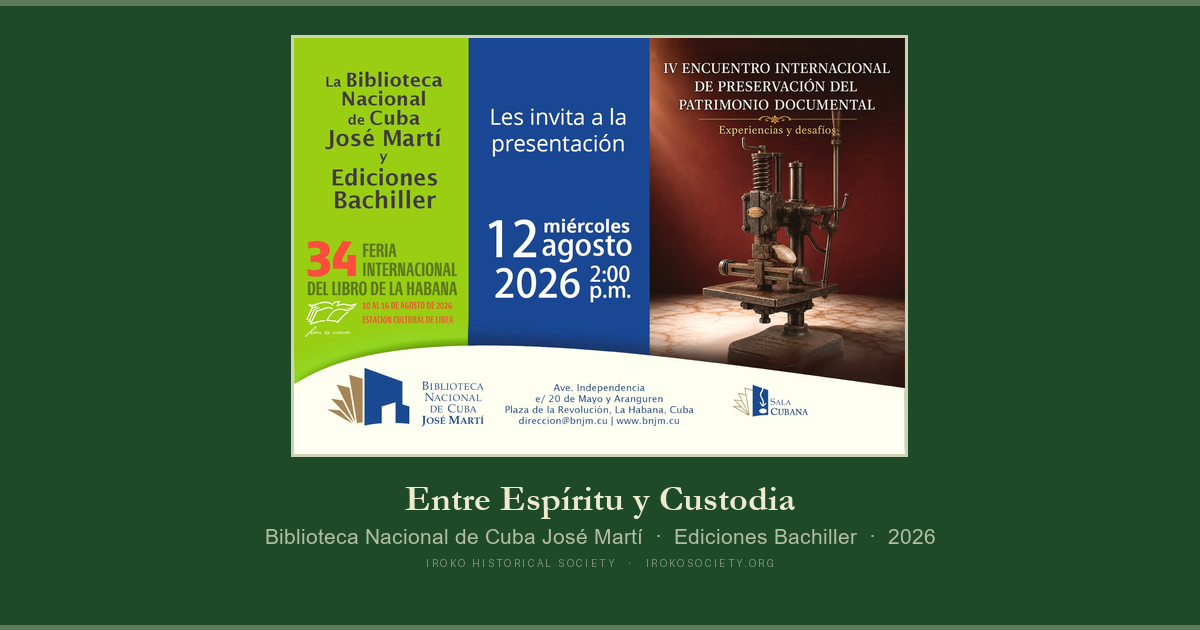
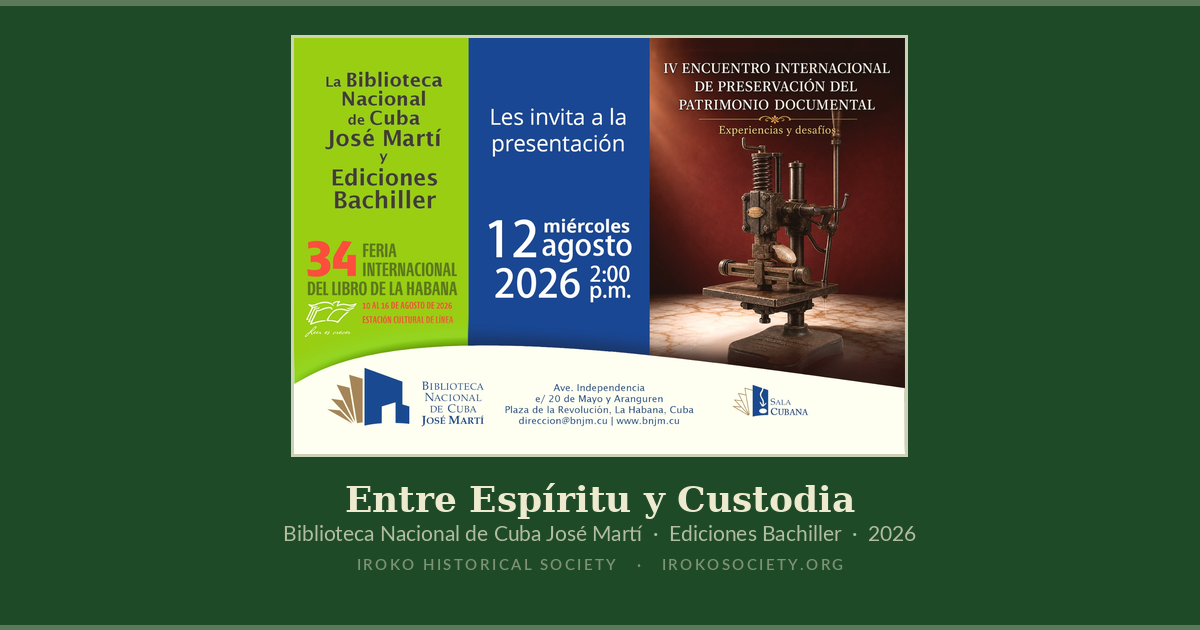
Updates

Changed region(s): [[0.2158, 0.754, 0.8017, 0.9048]]

diff --git a/entre-espiritu-y-custodia.html b/entre-espiritu-y-custodia.html
@@ -10,14 +10,14 @@
   <meta property="og:title"       content="Entre Espíritu y Custodia | Iroko Historical Society">
   <meta property="og:description" content="Chapter in the proceedings of the IV Encuentro Internacional de Preservación del Patrimonio Documental, Ediciones Bachiller, Biblioteca Nacional de Cuba José Martí, 2026.">
   <meta property="og:url"         content="https://irokosociety.org/entre-espiritu-y-custodia.html">
-  <meta property="og:image"       content="https://irokosociety.org/assets/og-entre-el-espiritu.png">
+  <meta property="og:image"       content="https://irokosociety.org/assets/og-entre-espiritu-y-custodia.png">
   <meta property="og:image:width"  content="1200">
   <meta property="og:image:height" content="630">
   <meta property="og:image:type"   content="image/png">
   <meta name="twitter:card"        content="summary_large_image">
   <meta name="twitter:title"       content="Entre Espíritu y Custodia | Iroko Historical Society">
   <meta name="twitter:description" content="Chapter in the proceedings of the IV Encuentro Internacional de Preservación del Patrimonio Documental, Ediciones Bachiller, Biblioteca Nacional de Cuba José Martí, 2026.">
-  <meta name="twitter:image"       content="https://irokosociety.org/assets/og-entre-el-espiritu.png">
+  <meta name="twitter:image"       content="https://irokosociety.org/assets/og-entre-espiritu-y-custodia.png">
   <link rel="stylesheet" href="style.css">
   <link rel="icon" type="image/svg+xml" href="assets/IHS-Logo.svg">
   <style>
@@ -48,6 +48,15 @@
     .page-content .page-subtitle.lg{--subtitle-size:1.6rem}
     .page-content .page-subtitle.xl{--subtitle-size:1.9rem;line-height:1.4}
     @media(max-width:600px){.page-content .page-subtitle{font-size:calc(var(--subtitle-size) * .82)}}
+    .page-content .invitation{background:var(--cream-light);border-left:4px solid var(--green-deep);border-radius:0;padding:1.15rem 1.4rem;margin:2rem 0 .5rem}
+    .page-content .invitation p{font-size:.95rem;color:var(--green-deep);line-height:1.7;margin:0 0 .6rem}
+    .page-content .invitation p:last-child{margin-bottom:0}
+    .page-content .invitation .when{font-family:var(--font-sans);font-size:.78rem;letter-spacing:.09em;text-transform:uppercase;color:var(--green-mid);margin-bottom:.55rem}
+    .page-content .invitation .es{color:var(--text-muted);font-size:.9rem}
+    .page-content .flyer{margin:0 0 1.1rem}
+    .page-content .flyer a{display:block;line-height:0}
+    .page-content .flyer img{width:100%;height:auto;display:block;border:1px solid var(--cream-dark)}
+    .page-content .flyer figcaption{font-family:var(--font-sans);font-size:.74rem;letter-spacing:.04em;color:var(--green-mid);margin-top:.5rem;line-height:1.5}
     .page-content h2{font-family:var(--font-display);font-size:1.25rem;color:var(--green-deep);margin:2rem 0 .6rem}
     .page-content h3{font-family:var(--font-sans);font-size:1rem;font-weight:600;color:var(--green-mid);margin:1.5rem 0 .4rem}
     .page-content p{font-family:var(--font-sans);font-size:.92rem;color:var(--text-muted);line-height:1.85;margin-bottom:1rem}
@@ -202,6 +211,36 @@
     Biblioteca Nacional in Havana in September 2025. It remains the only Spanish-language
     contribution in the Society's publication record.
   </p>
+
+  <div class="invitation">
+    <p class="when">Wednesday 12 August 2026 &middot; 2:00 pm &middot; Havana</p>
+
+    <figure class="flyer">
+      <a href="assets/flyer-iv-encuentro-2026.jpg" target="_blank" rel="noopener">
+        <img src="assets/flyer-iv-encuentro-2026.jpg" width="1600" height="1089"
+             alt="Invitation from the Biblioteca Nacional de Cuba Jos&eacute; Mart&iacute; and
+                  Ediciones Bachiller to the presentation of the IV Encuentro Internacional de
+                  Preservaci&oacute;n del Patrimonio Documental: Experiencias y desaf&iacute;os,
+                  Wednesday 12 August 2026 at 2:00 pm, 34 Feria Internacional del Libro de La
+                  Habana. The right panel shows an antique iron book press.">
+      </a>
+      <figcaption>
+        Invitation issued by the Biblioteca Nacional de Cuba Jos&eacute; Mart&iacute;.
+        Select the image to view it full size.
+      </figcaption>
+    </figure>
+
+    <p>
+      The volume is presented at the 34th Havana International Book Fair by the Biblioteca
+      Nacional de Cuba Jos&eacute; Mart&iacute; and Ediciones Bachiller. No invitation is
+      needed. Anyone who can get there, go.
+    </p>
+    <p class="es">
+      El volumen se presenta en la 34 Feria Internacional del Libro de La Habana, por la
+      Biblioteca Nacional de Cuba Jos&eacute; Mart&iacute; y Ediciones Bachiller. No hace
+      falta invitaci&oacute;n. Quien pueda llegar, que llegue.
+    </p>
+  </div>
 
   <hr class="section-divider">
 

diff --git a/cv.html b/cv.html
@@ -335,7 +335,7 @@
   <div class="cv-row">
     <span class="cv-year">2026</span>
     <div class="cv-item">
-      <strong><a href="entre-el-espiritu-y-la-custodia.html">Entre esp&iacute;ritu y custodia:
+      <strong><a href="entre-espiritu-y-custodia.html">Entre esp&iacute;ritu y custodia:
       Caminos &eacute;ticos para la digitalizaci&oacute;n de archivos sagrados
       afrocaribe&ntilde;os</a></strong>
       <span class="cv-venue">In <em>IV Encuentro Internacional de Preservaci&oacute;n del

diff --git a/scripts/make-og-entre-espiritu-y-custodia.py b/scripts/make-og-entre-espiritu-y-custodia.py
@@ -1,15 +1,15 @@
 #!/usr/bin/env python3
 """
-make-og-entre-el-espiritu.py
+make-og-entre-espiritu-y-custodia.py
 
-Builds assets/og-entre-el-espiritu.png, the Open Graph card for
-entre-el-espiritu-y-la-custodia.html.
+Builds assets/og-entre-espiritu-y-custodia.png, the Open Graph card for
+entre-espiritu-y-custodia.html.
 
 Layout: the IV Encuentro invitation centered in the upper area, scaled down,
 with the IHS identification block beneath it. Palette matches generate-og.py.
 
 Run from the repo root:
-    python scripts/make-og-entre-el-espiritu.py
+    python scripts/make-og-entre-espiritu-y-custodia.py
 """
 
 from pathlib import Path
@@ -113,7 +113,7 @@ def main():
     draw_centered(draw, y, "IROKO HISTORICAL SOCIETY   ·   IROKOSOCIETY.ORG",
                   f_mark, COL_MARK, tracking=2.4)
 
-    out = ASSETS / "og-entre-el-espiritu.png"
+    out = ASSETS / "og-entre-espiritu-y-custodia.png"
     img.save(out, "PNG", optimize=True)
     print("wrote", out, img.size)
 
